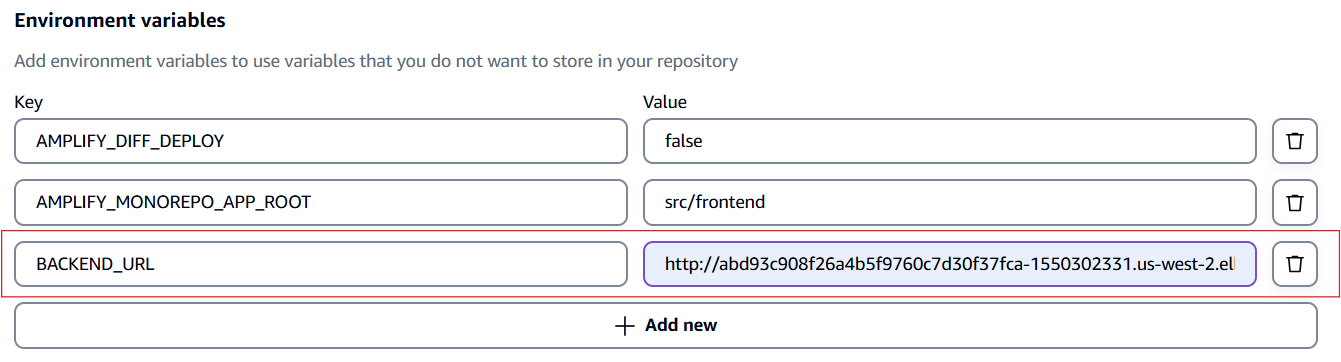
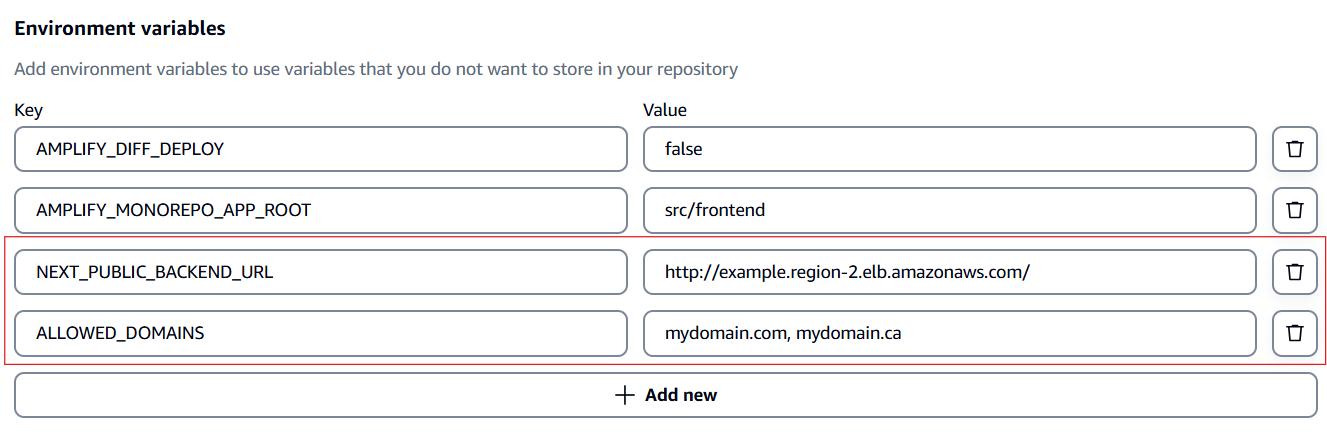
modified instructions for allowed domains

Changed region(s): [[0.0, 0.2431, 1.0, 0.9724], [0.0, 0.1215, 0.5561, 0.1823], [0.0, 0.0304, 0.1854, 0.0912]]

diff --git a/docs/frontend/frontend-deployment.md b/docs/frontend/frontend-deployment.md
@@ -16,12 +16,9 @@ git commit -m"Cloned AI-Enhanced-Security-Testing-ECE-Capstone repo"
  
 git push -u origin main 
 ```
-Before heading to the AWS console make sure to update the allowed email domains in the [pre-SignUp Handler](/src/frontend/amplify/function/preSignUpHandler.ts) to your company's domain and personalize the error message. Do not forget to add and push your changes in git. Now that you have the application in your GitHub repository go to the AWS console at https://aws.amazon.com/. Then search for the AWS Amplify Service. Then select Create New App. For the first step select Github as your Git provider and click ‘next’ as shown in Figure 2. After that, allow AWS to access your GitHub repositories, as seen in Figure 2  choose the repository where you have your cloned application, choose main as your branch, select ‘My app is a monorepo’ and enter src/frontend as the root directory and click on next. Then go to environment variables, add variable named 'NEXT_PUBLIC_BACKEND_URL' with the url of the backend load balancer as the value (you can find the url by searching for Load Balancer in the EC2 console, it should be the only classic load balancer), as seen in Figure 3. Lastly,  click ‘next’ for step 3 and ‘save and Deploy for step 4’. Now you have successfully created the AWS Amplify application, it will take around 5 minutes to build and deploy. 
+Now that you have the application in your GitHub repository go to the AWS console at https://aws.amazon.com/. Then search for the AWS Amplify Service. Then select Create New App. For the first step select Github as your Git provider and click ‘next’ as shown in Figure 2. After that, allow AWS to access your GitHub repositories, as seen in Figure 2  choose the repository where you have your cloned application, choose main as your branch, select ‘My app is a monorepo’ and enter src/frontend as the root directory and click on next. Then go to environment variables, add variable named 'NEXT_PUBLIC_BACKEND_URL' with the url of the backend load balancer as the value (you can find the url by searching for Load Balancer in the EC2 console, it should be the only classic load balancer) and add 'ALLOWED_DOMAINS' with the list of email domains you want to allow to sign up to the platform as seen in Figure 3. Lastly,  click ‘next’ for step 3 and ‘save and Deploy for step 4’. Now you have successfully created the AWS Amplify application, it will take around 5 minutes to build and deploy. 
  
  <div align="center">
-
-![Modifying the Pre-SignUp Handler](/docs/images/preSingUpHandler.png)
-Figure 1: Modifications for authorized email domains
 
 ![Deployment Instructions Step 1](/docs/images/AmplifyDeploymentInstructions1.png)
 
